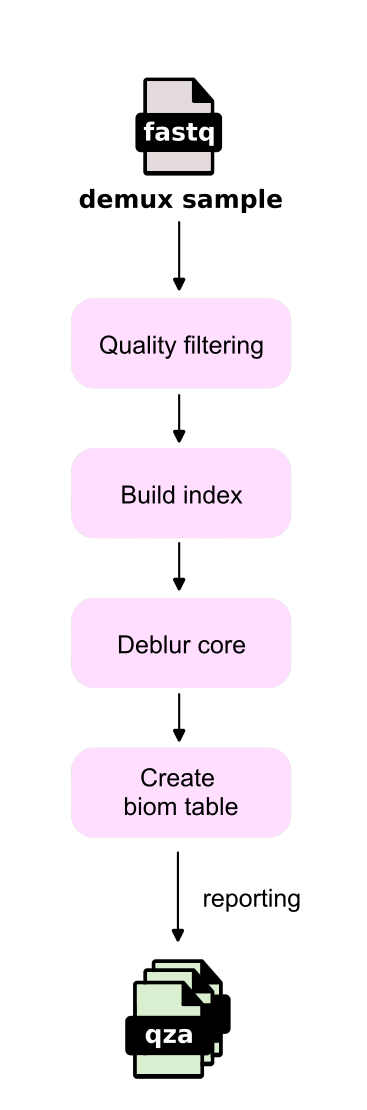
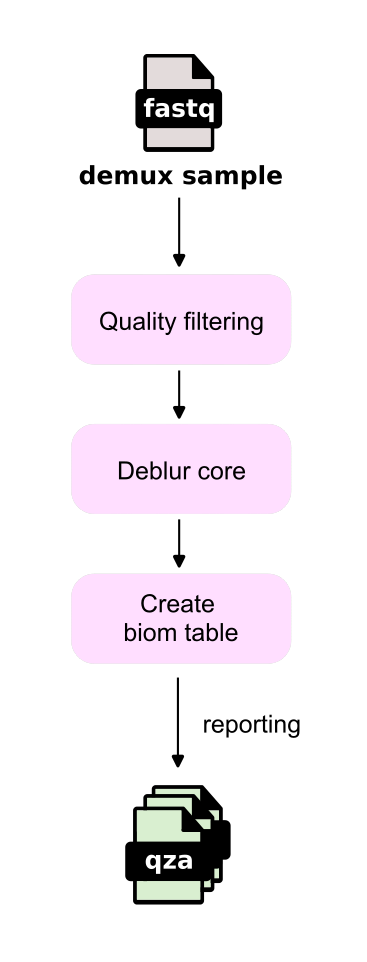
update: remove build index sector

Changed region(s): [[0.1798, 0.2495, 0.8392, 0.9979], [0.2098, 0.0312, 0.6294, 0.2183], [0.6594, 0.1559, 0.7793, 0.2183]]

diff --git a/docs/deblur.md b/docs/deblur.md
@@ -50,10 +50,6 @@ A low-quality window is identified as the first instance of consecutive bases wi
 | **ambiguous**   |  The read without being truncated obtains ambiguous bases         |
 | **truncated ambiguous** | The truncated read obtains ambiguous bases         |
 
-
-
-### Build index
-
 ### Deblur core
 
 ```{image} static/deblur_core.png
